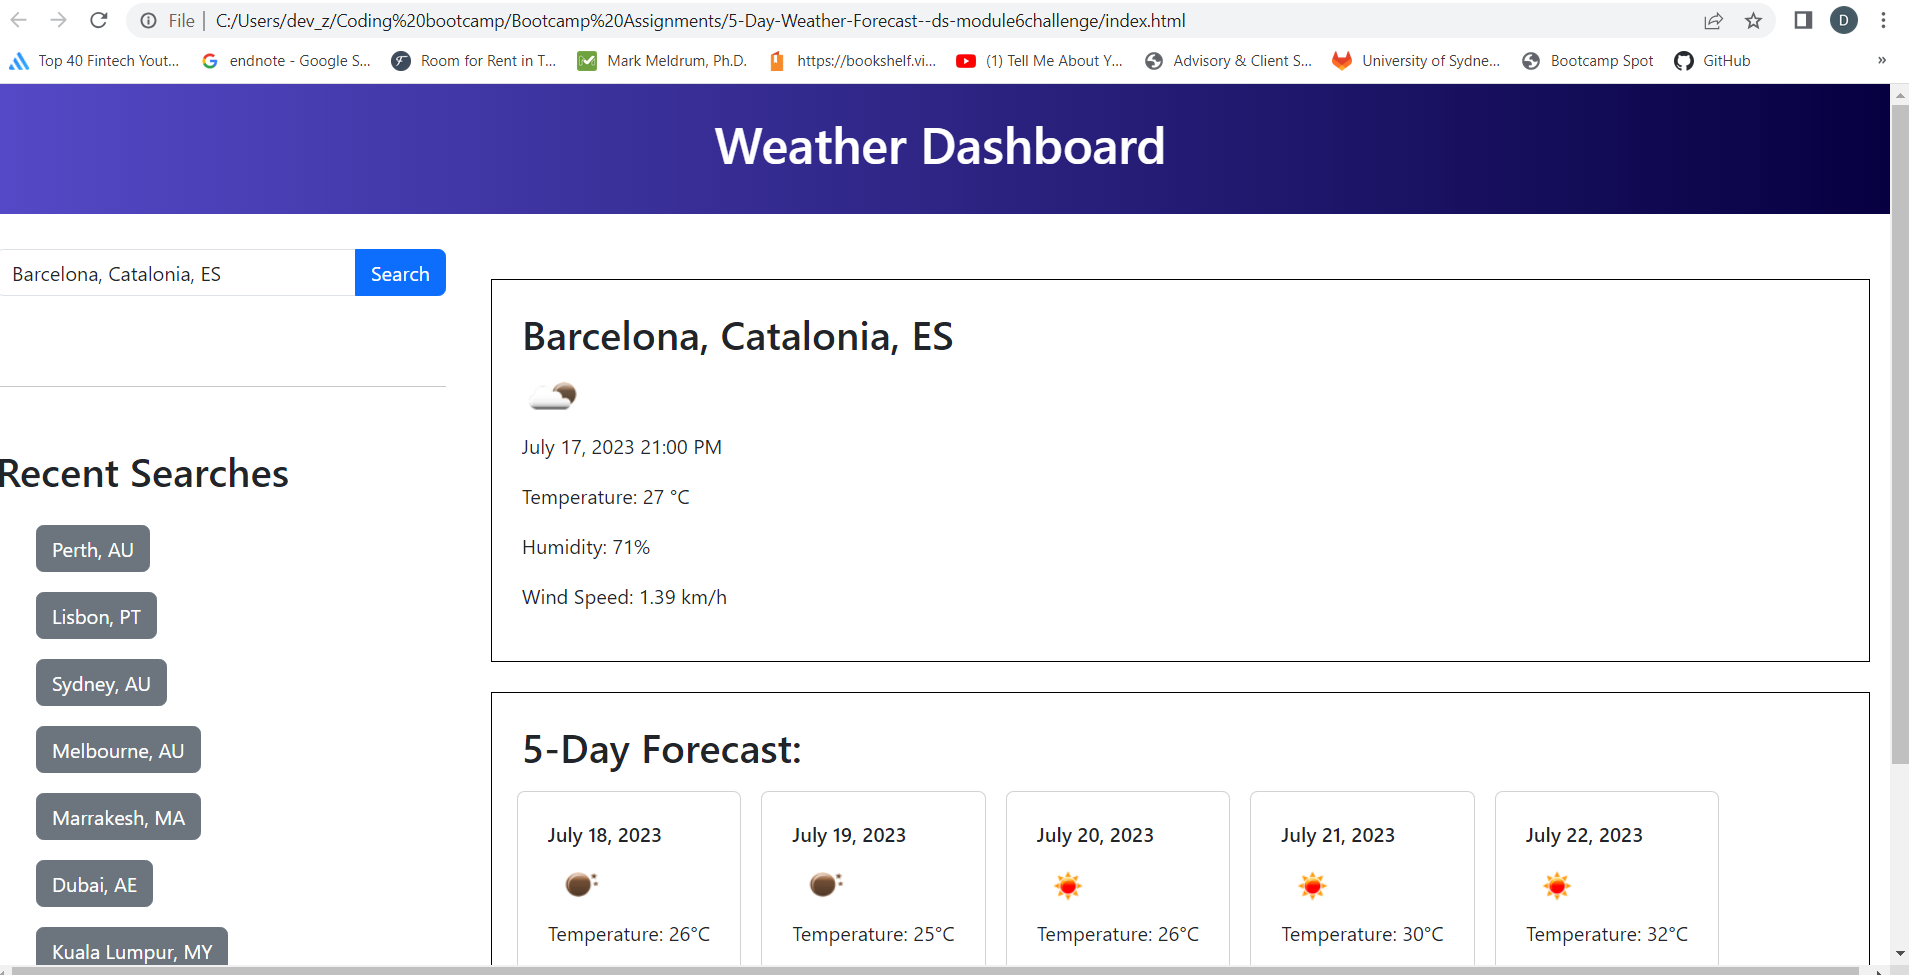
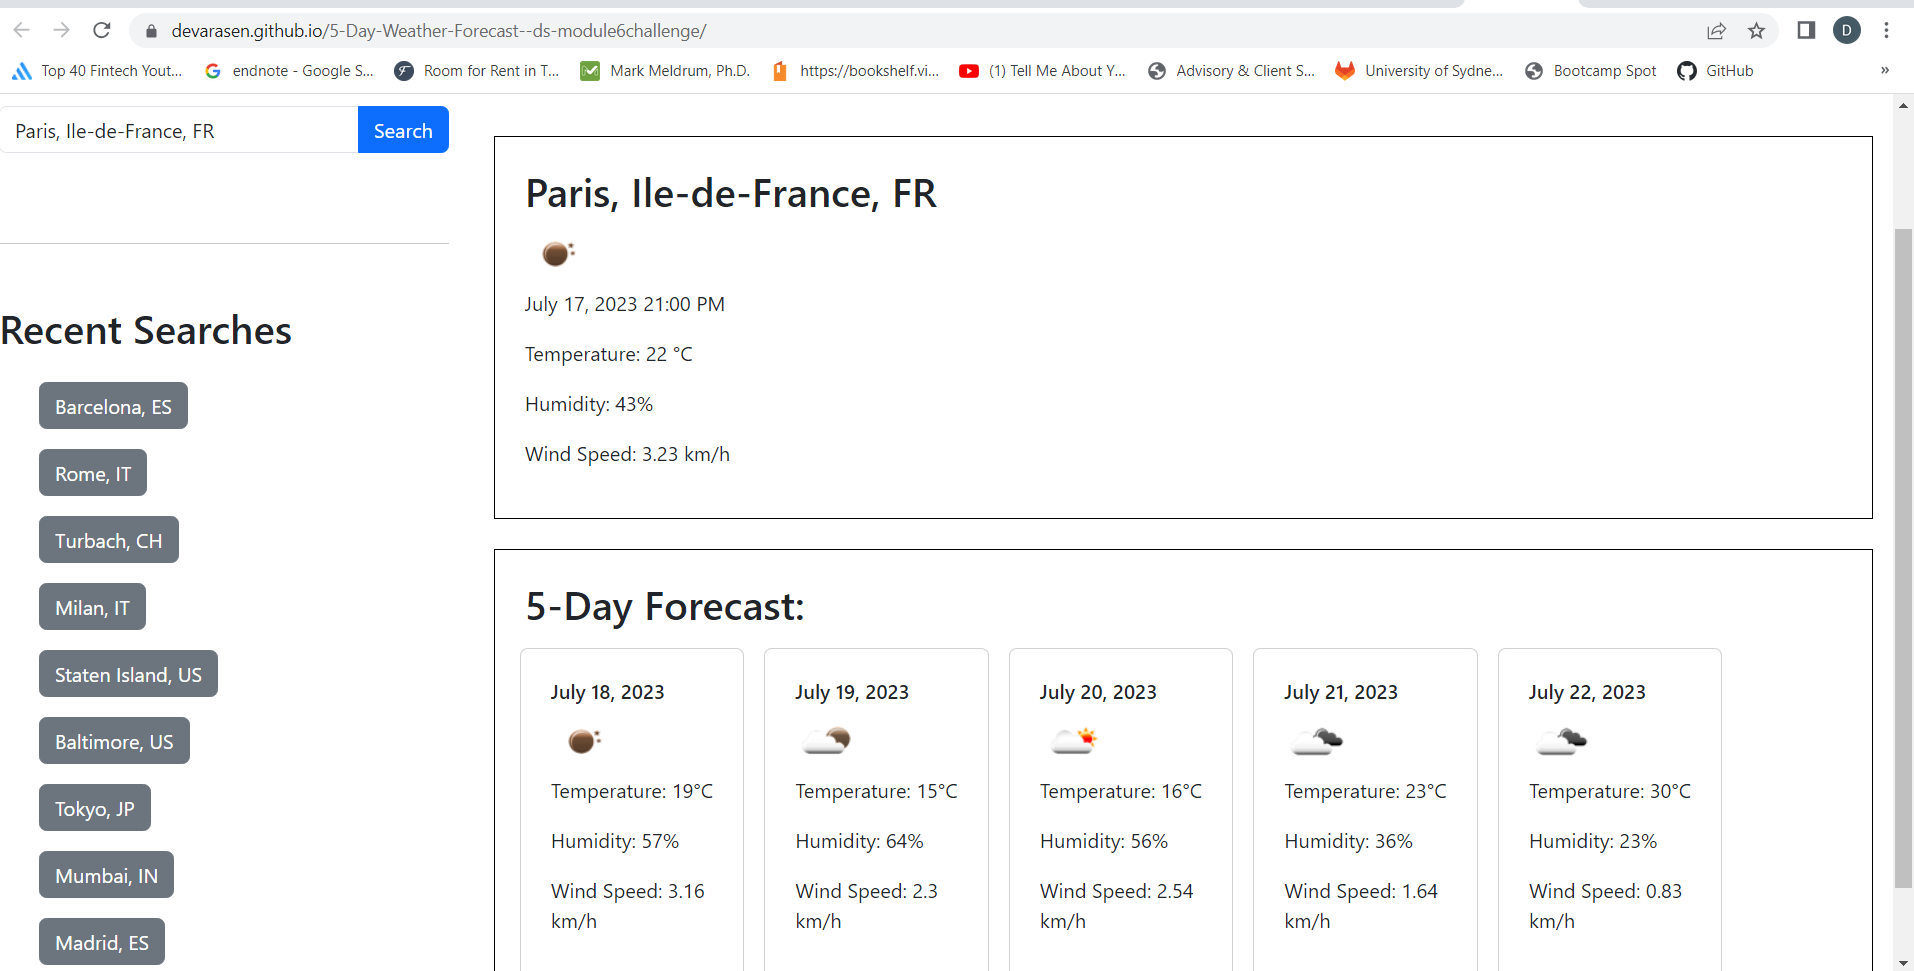
readMe update

diff --git a/README.md b/README.md
@@ -14,7 +14,7 @@ It saves the last 10 recent searches so you can revisit past searches
 
 ![HomePageEmpty](./assets/images/Home%20Page%20Empty.PNG)
 
-![HomePage]()
+![Working Page](./assets/images/Working%20Page.PNG)
 
 ## Usage
 
